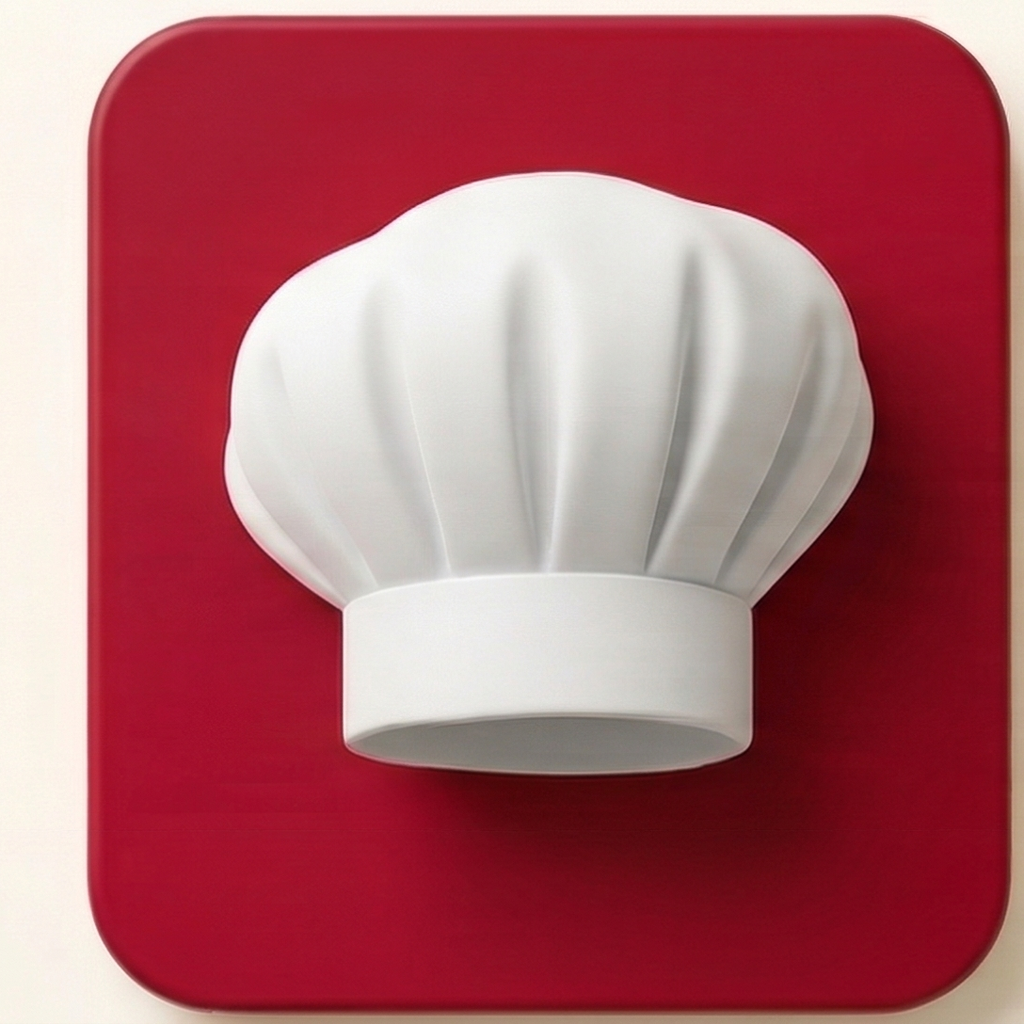
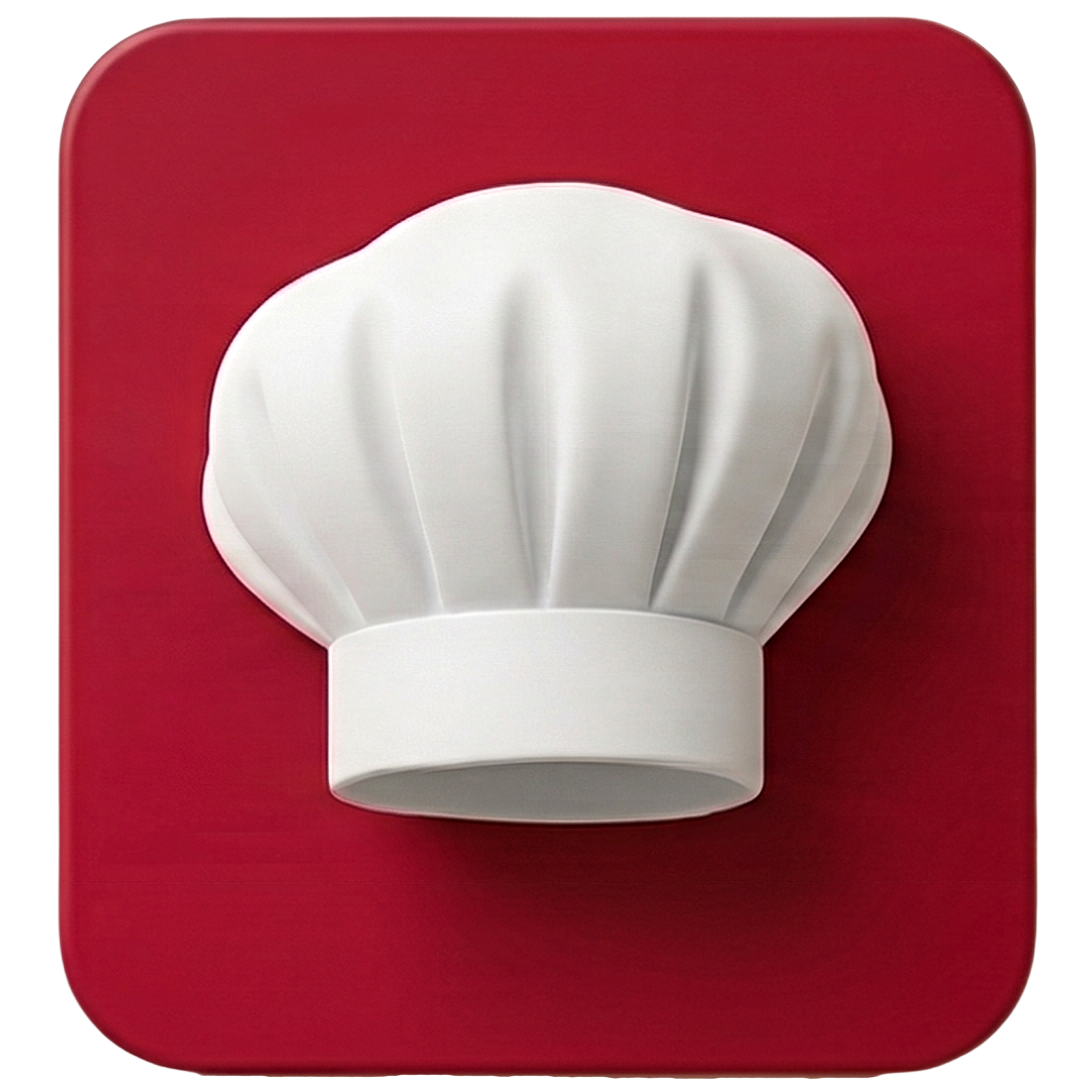
feat: replace chef hat image with new CBHat.png asset
- Replaced chefs-hat.png and chefs-hat-hd.png (web) with new 1088x1088 asset
- Added chefs-hat.png to mobile assets/images/
- Updated mobile RecipeImage to require from assets/images/chefs-hat.png
  (was using icon.png)
- Verified object-fit: contain at all hat usage points (web + mobile)

diff --git a/apps/mobile/components/RecipeImage.tsx b/apps/mobile/components/RecipeImage.tsx
@@ -2,7 +2,7 @@ import React from 'react';
 import { Image, View, StyleSheet } from 'react-native';
 import type { ImageStyle, ViewStyle } from 'react-native';
 
-const chefsHat = require('../assets/icon.png');
+const chefsHat = require('../assets/images/chefs-hat.png');
 
 const SUPABASE_URL = process.env.EXPO_PUBLIC_SUPABASE_URL ?? '';
 const SUPABASE_ANON_KEY = process.env.EXPO_PUBLIC_SUPABASE_ANON_KEY ?? '';
